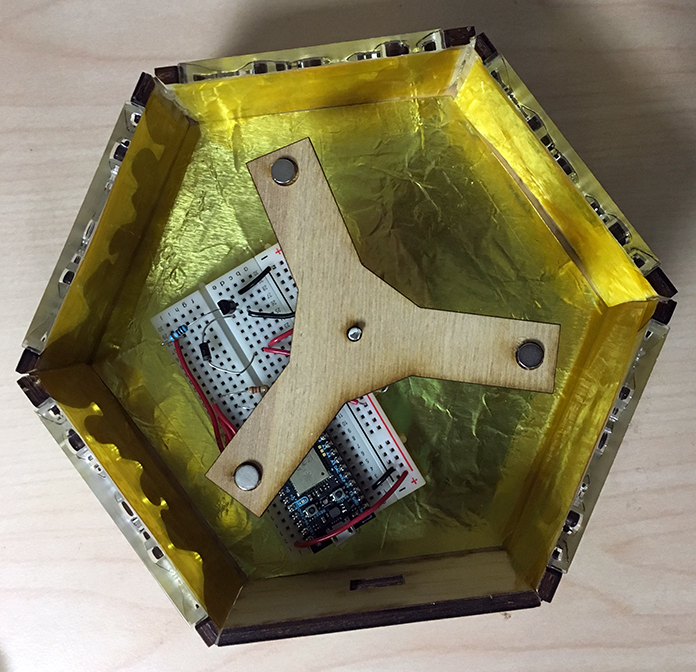
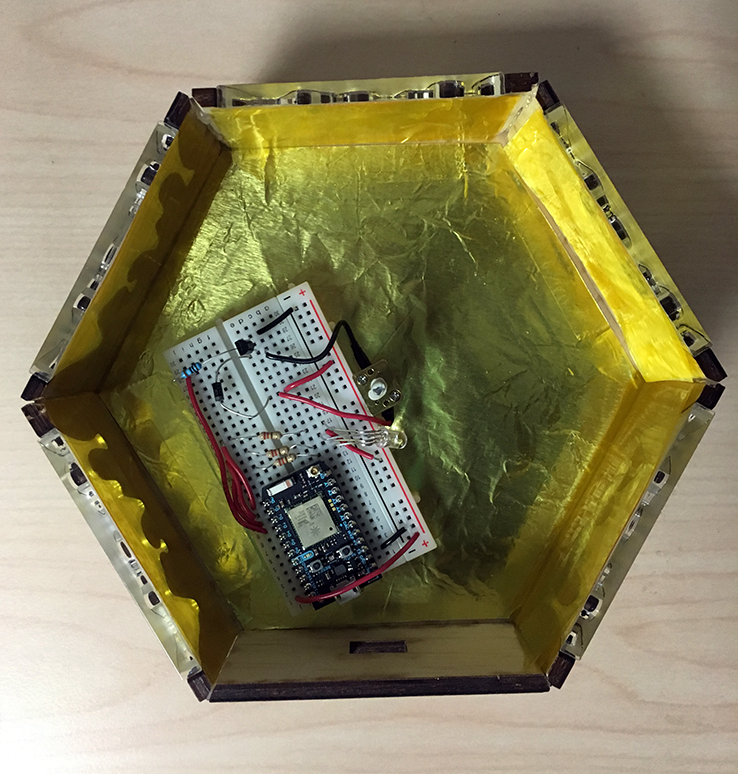
fixed image

diff --git a/README.md b/README.md
@@ -7,11 +7,11 @@ It is composed of a hexagonal box made of wood and acrylic. The acrylic portion 
 
 It uses a [Photon](https://store.particle.io/?product=particle-photon) to power the display's output.
 
-### Images and Videos
+### Images and Video
 
 
 *Inside of the display*
-![inside of the display](https://raw.githubusercontent.com/amandayung/ambeent-display/master/images/display-inside1.png)
+![inside of the display](https://raw.githubusercontent.com/amandayung/ambeent-display/master/images/display-inside2.png)
 
 ![inside of the display with spoke](https://raw.githubusercontent.com/amandayung/ambeent-display/master/images/display-inside1.png)
 
